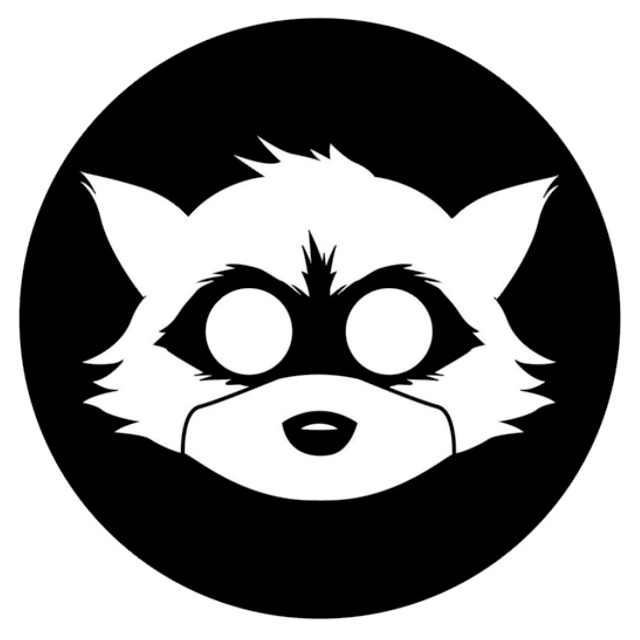
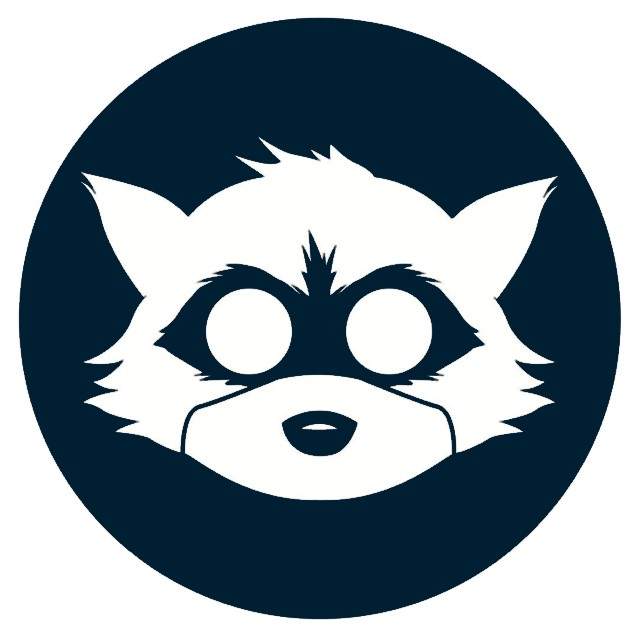
changed color of image

diff --git a/booking.php b/booking.php
@@ -24,5 +24,5 @@
   <span class="" id="example-popover-2"></span> </div>
   <div id="example-popover-2-content" class="hidden"> </div>
   <div id="example-popover-2-title" class="hidden"> </div>
-
+</body>
 </html>
